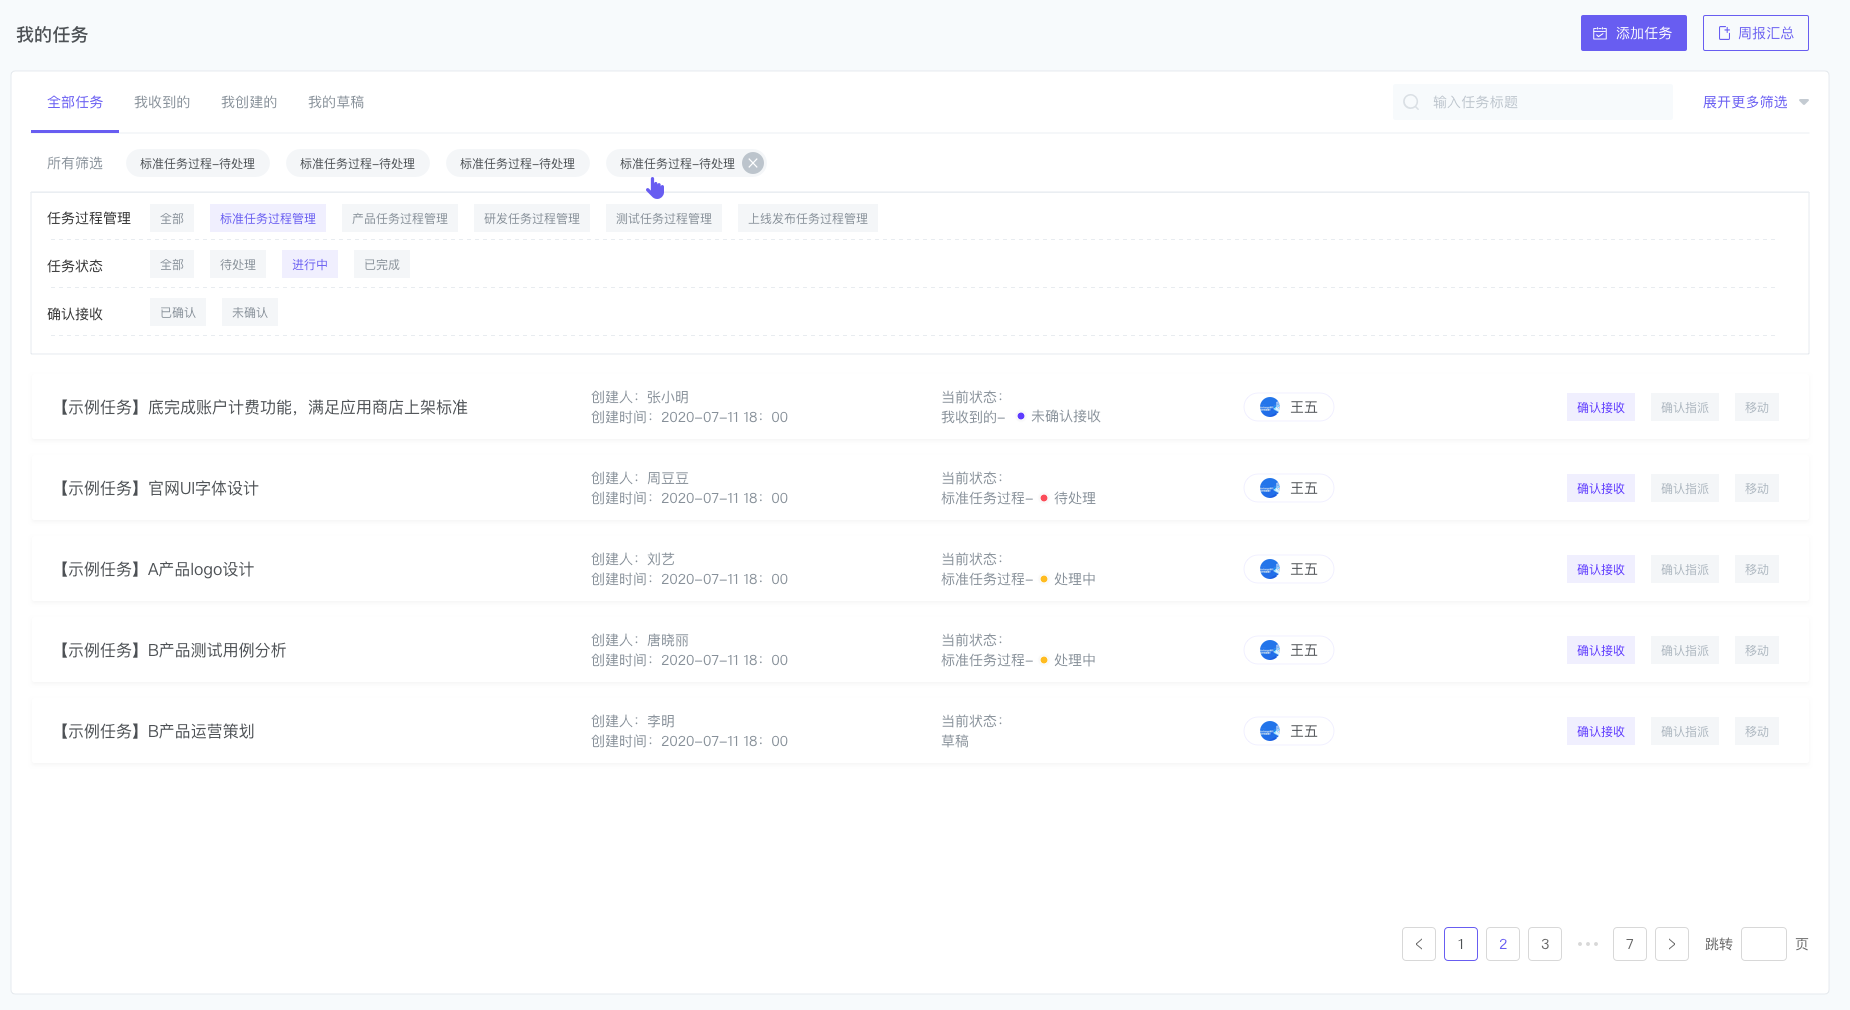
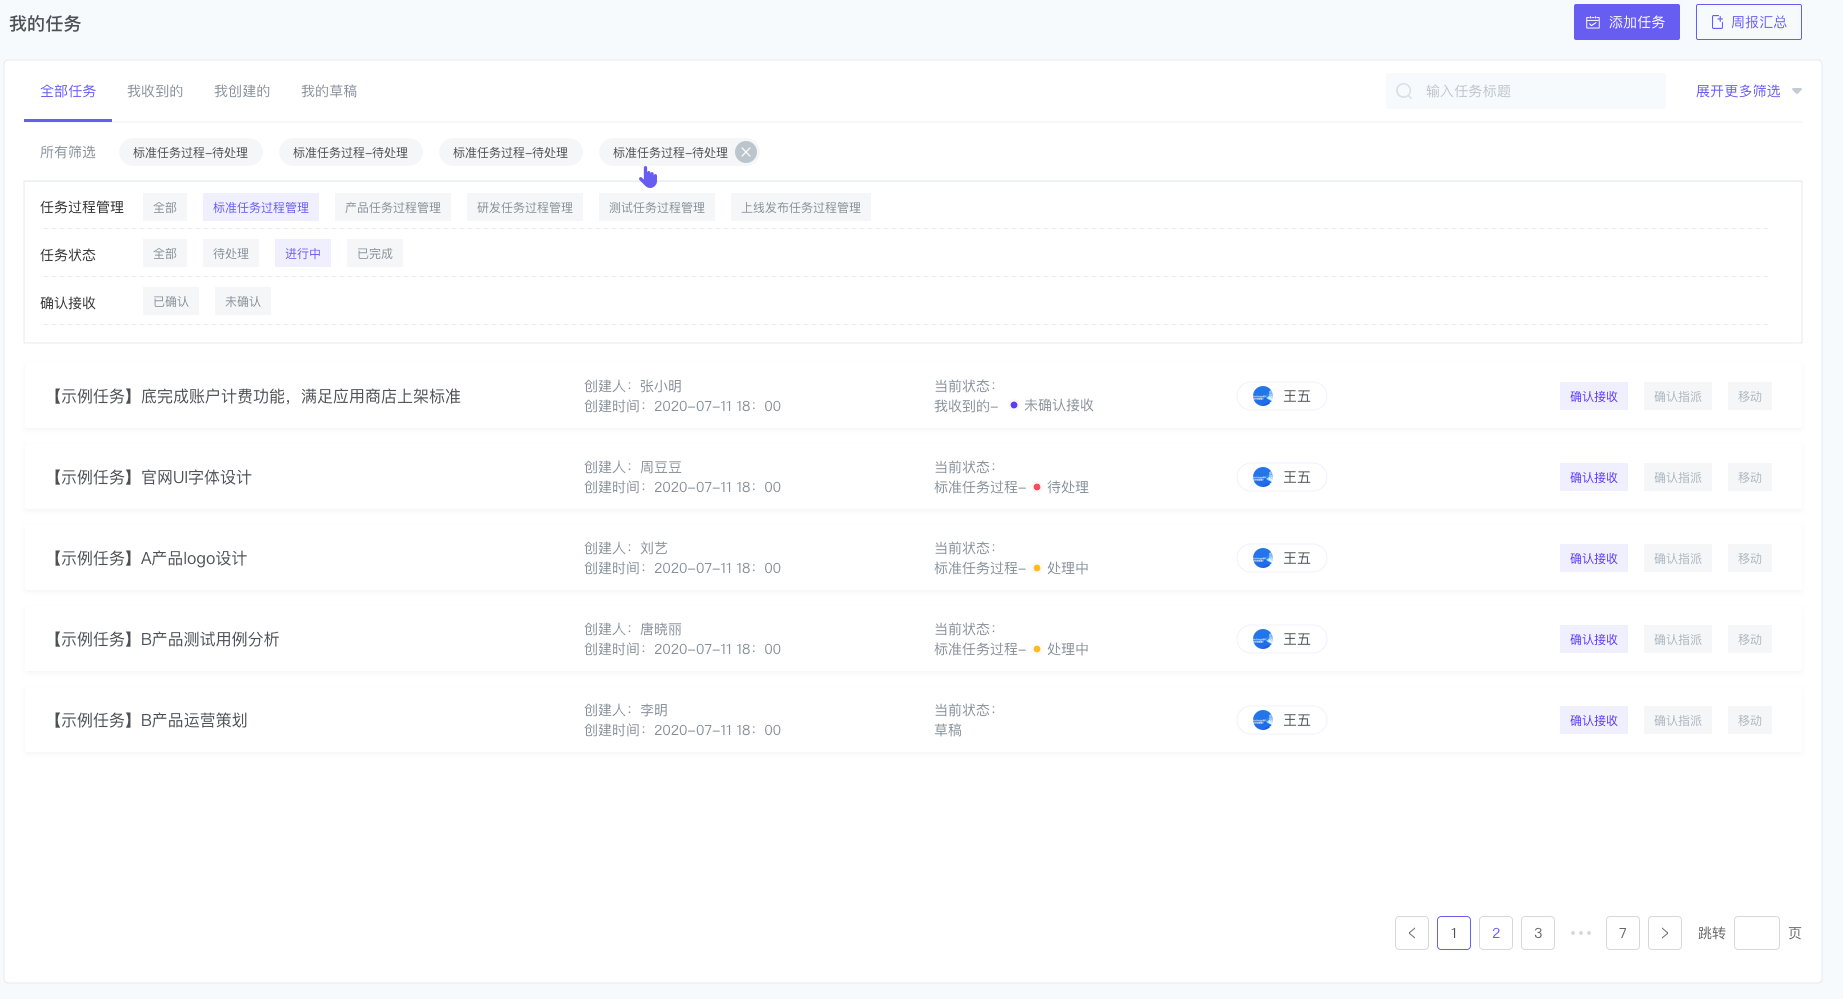
高保真图

diff --git a/src/views/taskManage/myTask/index.vue b/src/views/taskManage/myTask/index.vue
@@ -163,7 +163,7 @@ export default {
 }
 .pic-tasksearch {
   background: url("~@/assets/images/demoPic/tasksearch.png") no-repeat;
-  background-size: 100%;
+  background-size: 101%;
   height: calc(100vh);
 }
 .handle-assign {
